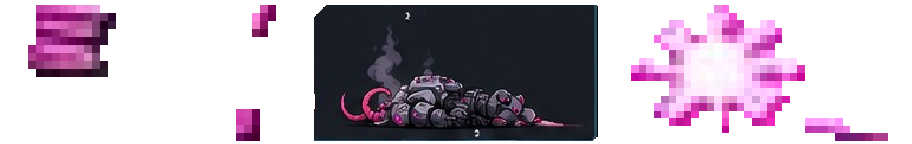
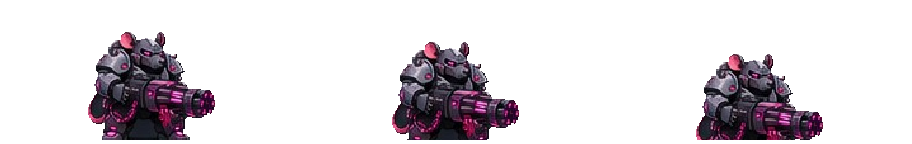
Rebuild the Heavy enemy and its projectile from intact poses
The heavy_*_v1 sheets the game loads were corrupted generation output:
caption text ("ATTACK / SHOOT (6 FRAMES)", "JUMP"), zoomed crops, opaque
boxes, frame numbers and poses cut across cells. tools/visual/salvage_heavy.py
extracts the only whole poses (idle, two steps, firing stance), faces them
right, drops plinths and frame numbers, aligns the feet and lays out the six
sheets with the frame counts EnemyCharacterVisual expects. The dithered,
holed shooting frames are not reused; death sinks under the CombatFx burst.

The heavy projectile movement/impact sheets (which contained a checklist)
are redrawn as a magenta plasma slug and ring burst at the same frame grid.

tests/sprite_sheet_integrity_static_test.py guards player and heavy sheets
(whole frames, wall-slide poses inside their cells, no caption pixels).
Originals stay recoverable from history and Cyberfield_Visual_Integration_v1.

Claude-Session: https://claude.ai/code/session_01BsDvQbboM7WnaEtQSbuWgs

diff --git a/tools/visual/salvage_heavy.py b/tools/visual/salvage_heavy.py
@@ -1,0 +1,174 @@
+"""Rebuild the Heavy enemy sheets from the only intact poses in the corrupted ones.
+
+The original heavy_*_v1.png sheets (still recoverable from git history and from
+Cyberfield_Visual_Integration_v1/) contain generation debris: caption text, zoomed
+crops, opaque boxes and poses cut across cells. Seven whole poses survive. This tool
+extracts them (largest connected component inside a reviewed box, so frame numbers
+and slivers are dropped), faces them all right, aligns the feet to one baseline and
+lays out the six sheets with the frame counts EnemyCharacterVisual expects:
+idle 4, walk 6, attack 6, air 4, hurt 2, death 3.
+
+This is a salvage, not a redesign: animation uses the few poses that exist.
+
+    python3 -I tools/visual/salvage_heavy.py [--source REV] [--preview DIR]
+"""
+from __future__ import annotations
+
+import io
+import subprocess
+import sys
+from pathlib import Path
+
+from PIL import Image
+
+sys.path.insert(0, str(Path(__file__).resolve().parent))
+from repack_wall_slide import components  # noqa: E402
+
+ROOT = Path(__file__).resolve().parents[2]
+OUT = ROOT / "assets/enemies/heavy"
+BASELINE = 140
+HEIGHT = 144
+# name: (source sheet, x0, x1, flip_to_face_right)
+POSES = {
+    "idle": ("idle", 748, 874, False),
+    "step_a": ("walk_run", 739, 880, False),
+    "step_b": ("walk_run", 973, 1098, False),
+    "air": ("jump_air_fall", 1515, 1675, False),
+}
+
+
+def source(name: str, rev: str) -> Image.Image:
+    rel = f"assets/enemies/heavy/heavy_{name}_v1.png"
+    data = subprocess.check_output(["git", "-C", str(ROOT), "show", f"{rev}:{rel}"])
+    return Image.open(io.BytesIO(data)).convert("RGBA")
+
+
+def strip_plinth(im: Image.Image) -> Image.Image:
+    """Some poses stand on a baked display plinth (with a frame number). The boots are
+    the lowest saturated magenta pixels: everything more than 2 rows below them goes."""
+    px = im.load()
+    w, h = im.size
+    boots = -1
+    for y in range(h):
+        for x in range(w):
+            r, g, b, a = px[x, y]
+            if a > 40 and r > 140 and b > 90 and g < 120:
+                boots = y
+    if boots < 0:
+        return im
+    for y in range(boots + 3, h):
+        for x in range(w):
+            px[x, y] = (0, 0, 0, 0)
+    return im
+
+
+def extract(rev: str, key: str) -> Image.Image:
+    sheet, x0, x1, flip = POSES[key]
+    crop = source(sheet, rev).crop((x0, 0, x1 + 1, HEIGHT))
+    parts = components(crop.getchannel("A"))
+    body = max(parts, key=len)
+    bx0, bx1 = min(x for x, _ in body) - 6, max(x for x, _ in body) + 6
+    by0, by1 = min(y for _, y in body) - 6, max(y for _, y in body) + 6
+    keep = Image.new("RGBA", crop.size)
+    src, dst = crop.load(), keep.load()
+    for part in parts:                       # every fragment inside the body box (dithered art)
+        if all(bx0 <= x <= bx1 and by0 <= y <= by1 for x, y in part):
+            for x, y in part:
+                dst[x, y] = src[x, y]
+    keep = strip_plinth(keep)
+    pose = keep.crop(keep.getbbox())
+    return pose.transpose(Image.FLIP_LEFT_RIGHT) if flip else pose
+
+
+def layout(poses, cell, nudges=None):
+    out = Image.new("RGBA", (cell * len(poses), HEIGHT))
+    for i, pose in enumerate(poses):
+        dx, dy = (nudges or [(0, 0)] * len(poses))[i]
+        x = i * cell + (cell - pose.width) // 2 + dx
+        y = BASELINE - pose.height + dy
+        out.alpha_composite(pose, (max(i * cell, x), max(0, y)))
+    return out
+
+
+def projectile_sheets():
+    """Heavy plasma slug (8x 80x104) and impact (6x 136x72), drawn in 2 px blocks
+    because ProjectileVisual shows them at 0.45x. Replaces sheets full of debris."""
+    import math
+    import random
+    sys.path.insert(0, str(Path(__file__).resolve().parent))
+    from pixelkit import Canvas, hexc, mix, rgba
+    white, mag, deep = hexc("fff0fa"), hexc("ff2a9a"), hexc("8a1060")
+    move = Image.new("RGBA", (640, 104))
+    for f in range(8):
+        c = Canvas(80, 104)
+        pulse = 1.0 + 0.12 * math.sin(f / 8 * 2 * math.pi)
+        for k in range(5):                                   # trail, fading to the left
+            r = int((14 - k * 2) * pulse)
+            cx = 52 - k * 9 - (f % 2) * 2
+            c.ellipse(cx - r, 52 - r // 2, cx + r, 52 + r // 2, rgba(mix(mag, deep, k / 5), 200 - k * 36))
+        c.ellipse(40, 44, 66, 60, rgba(mag))
+        c.ellipse(48, 47, 62, 57, rgba(white))
+        rnd = random.Random(600 + f)
+        for _ in range(6):
+            x, y = rnd.randint(8, 44), rnd.randint(38, 66)
+            c.rect(x - x % 2, y - y % 2, x - x % 2 + 1, y - y % 2 + 1, rgba(mag, 180))
+        move.alpha_composite(c.im, (f * 80, 0))
+    impact = Image.new("RGBA", (816, 72))
+    for f in range(6):
+        c = Canvas(136, 72)
+        t = (f + 1) / 6
+        r = 6 + t * 30
+        alpha = int(255 * (1 - t) ** 0.7)
+        c.d.ellipse((68 - r, 36 - r * 0.8, 68 + r, 36 + r * 0.8), outline=rgba(mix(white, mag, t), alpha), width=4 if f < 3 else 2)
+        if f < 2:
+            c.ellipse(56, 26, 80, 46, rgba(white, 240 - f * 100))
+        rnd = random.Random(700)
+        for _ in range(14):
+            a, sp = rnd.uniform(0, 2 * math.pi), rnd.uniform(0.6, 1.0)
+            d = 6 + t * 40 * sp
+            x, y = int(68 + math.cos(a) * d), int(36 + math.sin(a) * d * 0.7)
+            c.rect(x - x % 2, y - y % 2, x - x % 2 + 3, y - y % 2 + 3, rgba(mag, alpha))
+        impact.alpha_composite(c.im, (f * 136, 0))
+    return move, impact
+
+
+def _sink(pose: Image.Image, rows: int) -> Image.Image:
+    """Same baseline, bottom rows cut: reads as collapsing into the floor."""
+    return pose.crop((0, 0, pose.width, pose.height - rows))
+
+
+def main():
+    rev = sys.argv[sys.argv.index("--source") + 1] if "--source" in sys.argv else "ponto-recuperacao-pre-renascimento"
+    p = {k: extract(rev, k) for k in POSES}
+    sheets = {
+        "idle": layout([p["idle"]] * 4, 232, [(0, 0), (0, 1), (0, 1), (0, 0)]),
+        "walk_run": layout([p["step_a"], p["step_b"], p["idle"], p["step_a"], p["step_b"], p["idle"]], 232),
+        # The original shooting frames are dithered and holed; the clean firing stance
+        # (from the jump sheet) carries the attack, with a small recoil.
+        "attack_shoot": layout([p["idle"], p["air"], p["air"], p["air"], p["air"], p["idle"]], 264,
+                               [(0, 0), (0, 0), (-3, 0), (0, 0), (-3, 0), (0, 0)]),
+        "jump_air_fall": layout([p["air"]] * 4, 232, [(0, -2), (0, -1), (0, 0), (0, 1)]),
+        "hurt": layout([p["idle"], p["idle"]], 232, [(-4, 0), (-2, 0)]),
+        # Death plays for 0.3 s under CombatFx's burst: the body sinks out of view.
+        "death": layout([p["idle"], _sink(p["idle"], 10), _sink(p["idle"], 22)], 304),
+    }
+    for name, im in sheets.items():
+        im.save(OUT / f"heavy_{name}_v1.png", optimize=True)
+    move, impact = projectile_sheets()
+    move.save(OUT / "projectile/heavy_projectile_movement_v1.png", optimize=True)
+    impact.save(OUT / "projectile/heavy_projectile_impact_v1.png", optimize=True)
+    sheets["projectile_movement"], sheets["projectile_impact"] = move, impact
+    if "--preview" in sys.argv:
+        d = Path(sys.argv[sys.argv.index("--preview") + 1])
+        d.mkdir(parents=True, exist_ok=True)
+        rows = list(sheets.values())
+        board = Image.new("RGBA", (max(r.width for r in rows), sum(r.height + 6 for r in rows)), (90, 96, 110, 255))
+        y = 0
+        for r in rows:
+            board.alpha_composite(r, (0, y)); y += r.height + 6
+        board.save(d / "heavy_salvage.png")
+    print("ok", ", ".join(sheets))
+
+
+if __name__ == "__main__":
+    main()

diff --git a/tests/sprite_sheet_integrity_static_test.py b/tests/sprite_sheet_integrity_static_test.py
@@ -1,0 +1,61 @@
+"""Sprite-sheet integrity (Operação Renascimento, 30/10/2026).
+
+Regression guard for the audit defects: poses cut by the cell grid (wall slide),
+generation debris and broken Heavy sheets. Needs Pillow:
+    python3 tests/sprite_sheet_integrity_static_test.py
+"""
+import unittest
+from pathlib import Path
+
+ROOT = Path(__file__).resolve().parents[1]
+PLAYER_FRAMES = {"idle": 4, "walk_run": 6, "jump_air_fall": 4, "dash": 4, "ground_slam": 5, "hurt": 2,
+                 "downed_death": 3, "revive_ally": 5, "wall_slide": 4, "wall_climb": 4}
+HEAVY_FRAMES = {"idle": 4, "walk_run": 6, "attack_shoot": 6, "jump_air_fall": 4, "hurt": 2, "death": 3}
+
+
+def frames(path, count):
+    from PIL import Image
+    image = Image.open(path).convert("RGBA")
+    width, height = image.size
+    assert width % count == 0, f"{path}: width {width} not divisible by {count}"
+    cell = width // count
+    return [image.crop((i * cell, 0, (i + 1) * cell, height)) for i in range(count)]
+
+
+class SpriteSheetIntegrity(unittest.TestCase):
+    def setUp(self):
+        try:
+            import PIL  # noqa: F401
+        except ImportError:
+            self.skipTest("Pillow not installed")
+
+    def assert_whole_frames(self, path, count, check_edges=True):
+        for index, frame in enumerate(frames(path, count)):
+            alpha = frame.getchannel("A")
+            box = alpha.point(lambda v: 255 if v > 16 else 0).getbbox()
+            self.assertIsNotNone(box, f"{path.name} frame {index} is empty")
+            if check_edges:
+                self.assertGreater(box[0], 0, f"{path.name} frame {index} touches the left cell edge")
+                self.assertLess(box[2], frame.width, f"{path.name} frame {index} touches the right cell edge")
+
+    def test_player_sheets(self):
+        for character in ("jhon", "jackson", "kai", "spark"):
+            for path in sorted((ROOT / "assets/players" / character).glob("*.png")):
+                key = next((k for k in PLAYER_FRAMES if k in path.name), None)
+                if key is None:
+                    continue
+                self.assert_whole_frames(path, PLAYER_FRAMES[key], check_edges=key == "wall_slide")
+
+    def test_heavy_sheets_are_rebuilt_whole(self):
+        for key, count in HEAVY_FRAMES.items():
+            path = ROOT / f"assets/enemies/heavy/heavy_{key}_v1.png"
+            self.assert_whole_frames(path, count)
+            # No leftover cyan caption text from the corrupted generation sheets.
+            from PIL import Image
+            pixels = Image.open(path).convert("RGBA").getdata()
+            caption = sum(1 for r, g, b, a in pixels if a > 200 and b > 180 and g > 180 and r < 100)
+            self.assertEqual(caption, 0, f"{path.name}: caption-coloured pixels")
+
+
+if __name__ == "__main__":
+    unittest.main()
